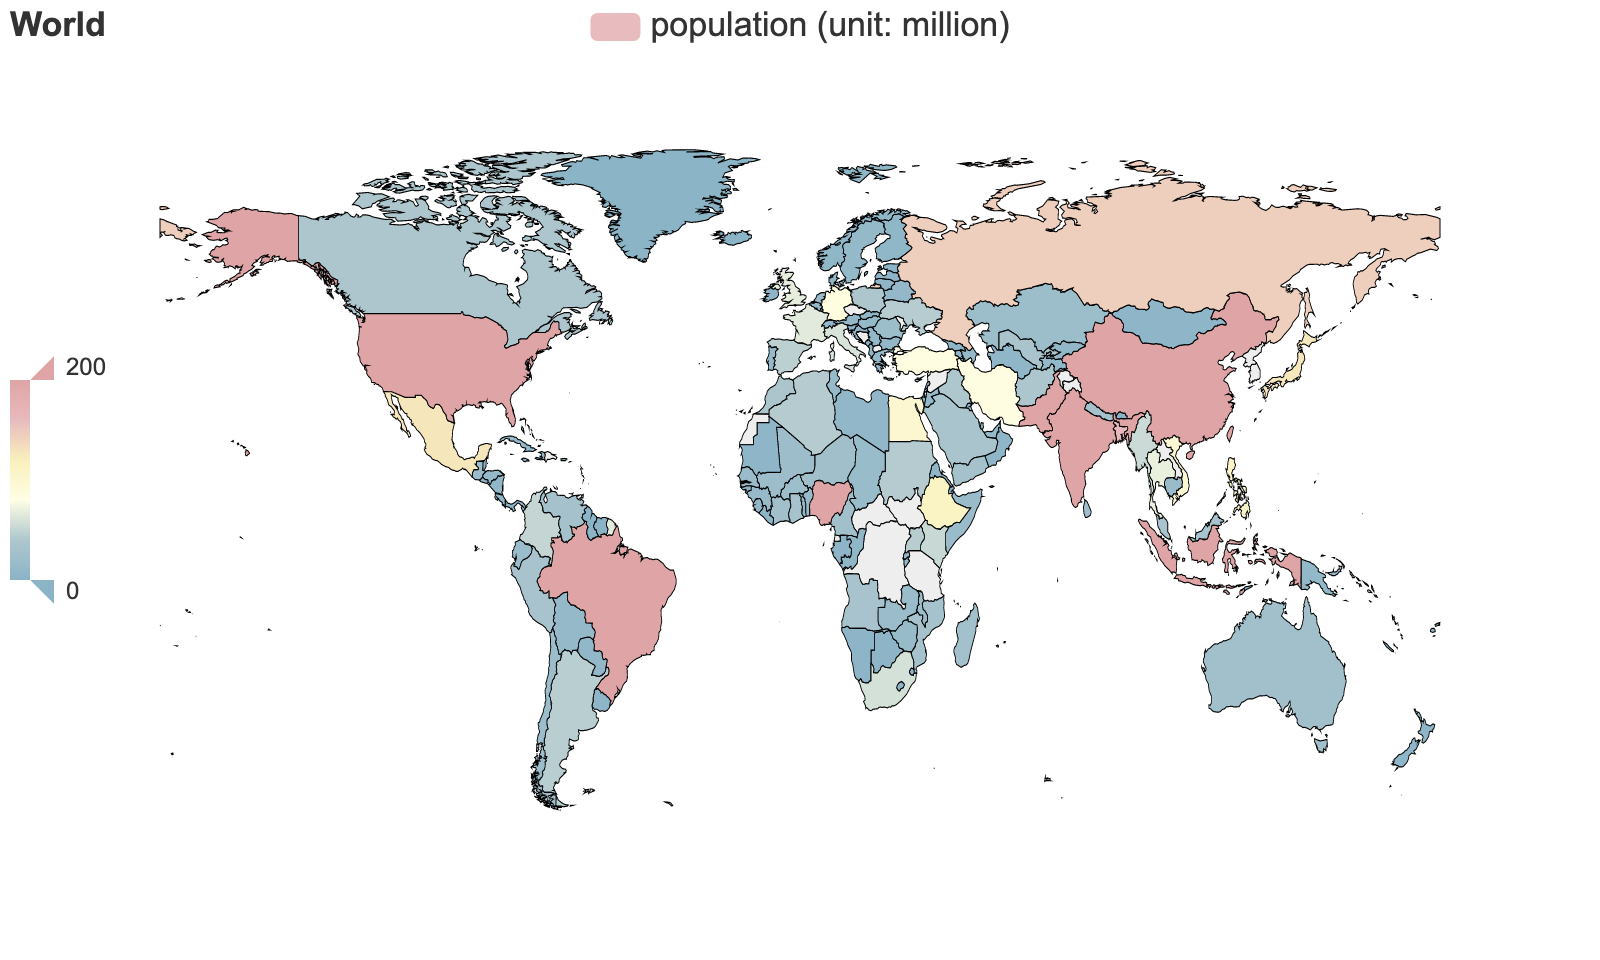
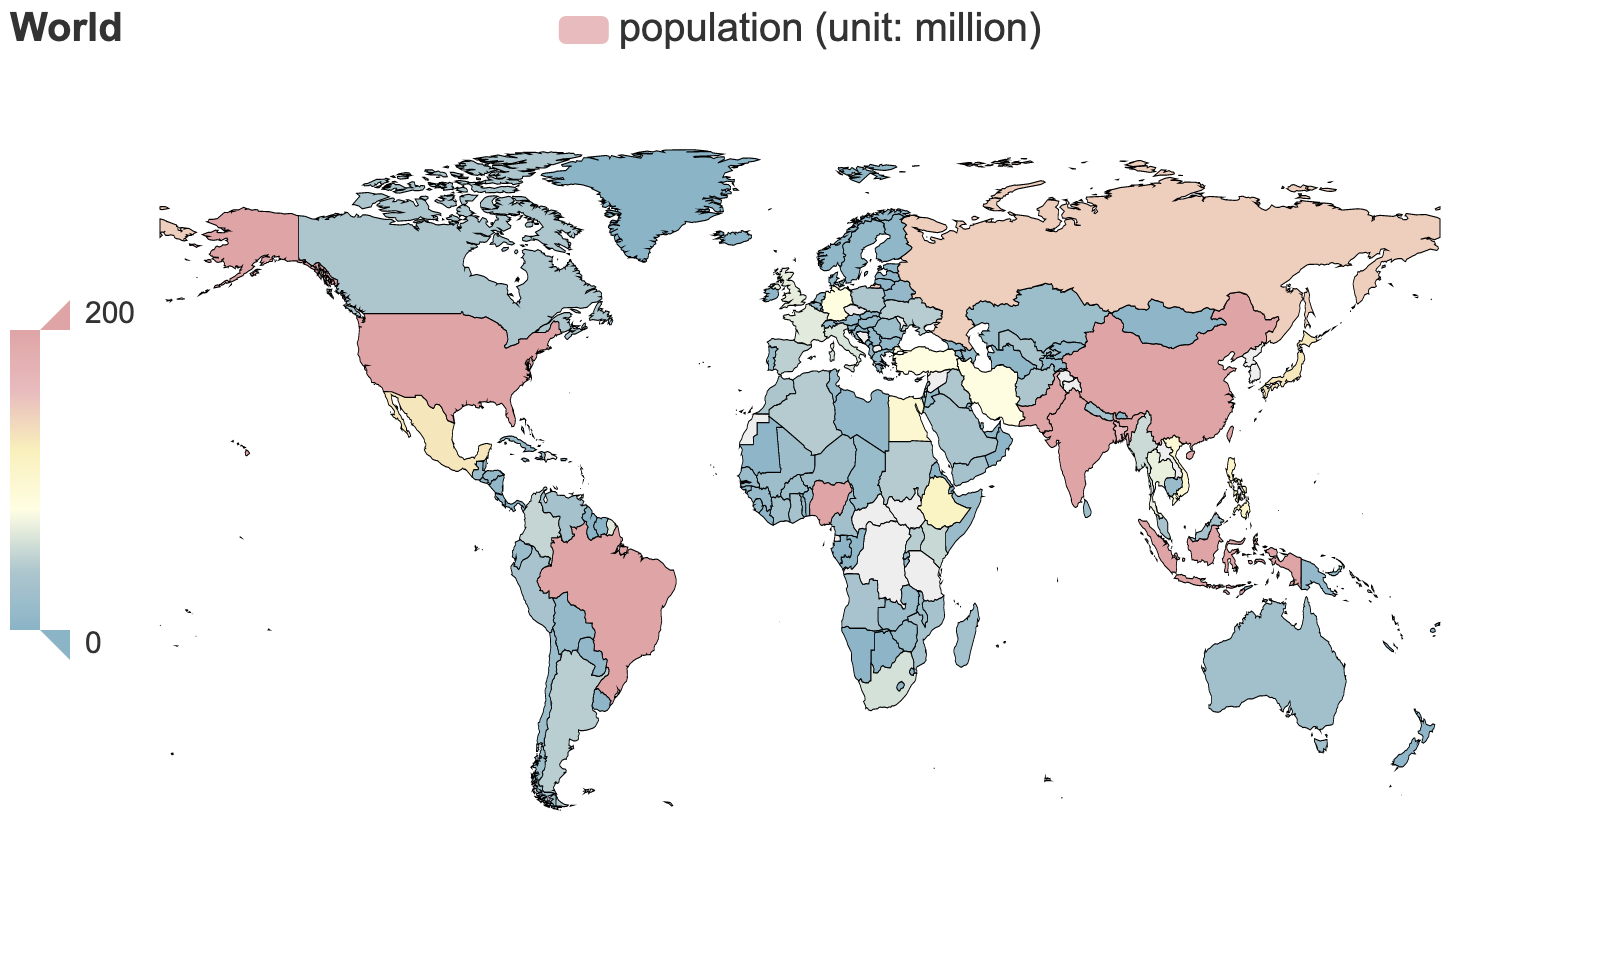
Add files via upload

diff --git a/covid-19/figures_rule_of_law/World_heatmap_overall.html b/covid-19/figures_rule_of_law/World_heatmap_overall.html
@@ -8,11 +8,11 @@
 
 </head>
 <body>
-    <div id="836d7d702f7b478482d96770fcd80b56" class="chart-container" style="width:800px; height:480px;"></div>
+    <div id="707cb8d31ebd4861a7d9e0aa009ff277" class="chart-container" style="width:800px; height:480px;"></div>
     <script>
-        var chart_836d7d702f7b478482d96770fcd80b56 = echarts.init(
-            document.getElementById('836d7d702f7b478482d96770fcd80b56'), 'white', {renderer: 'canvas'});
-        var option_836d7d702f7b478482d96770fcd80b56 = {
+        var chart_707cb8d31ebd4861a7d9e0aa009ff277 = echarts.init(
+            document.getElementById('707cb8d31ebd4861a7d9e0aa009ff277'), 'white', {renderer: 'canvas'});
+        var option_707cb8d31ebd4861a7d9e0aa009ff277 = {
     "backgroundColor": "#FFFFFF",
     "animation": true,
     "animationThreshold": 2000,
@@ -56,7 +56,7 @@
                 "show": false,
                 "position": "top",
                 "margin": 8,
-                "fontSize": 2
+                "fontSize": 7
             },
             "mapType": "world",
             "data": [
@@ -600,7 +600,7 @@
             "itemWidth": 25,
             "itemHeight": 14,
             "textStyle": {
-                "fontSize": 15
+                "fontSize": 20
             }
         }
     ],
@@ -622,10 +622,10 @@
             "padding": 5,
             "itemGap": 10,
             "textStyle": {
-                "fontSize": 15
+                "fontSize": 20
             },
             "subtextStyle": {
-                "fontSize": 15
+                "fontSize": 20
             }
         }
     ],
@@ -635,7 +635,7 @@
         "min": 0.25,
         "max": 0.75,
         "textStyle": {
-            "fontSize": 10
+            "fontSize": 15
         },
         "inRange": {
             "color": [
@@ -653,12 +653,12 @@
         "orient": "vertical",
         "top": "center",
         "showLabel": true,
-        "itemWidth": 10,
-        "itemHeight": 100,
+        "itemWidth": 15,
+        "itemHeight": 150,
         "borderWidth": 0
     }
 };
-        chart_836d7d702f7b478482d96770fcd80b56.setOption(option_836d7d702f7b478482d96770fcd80b56);
+        chart_707cb8d31ebd4861a7d9e0aa009ff277.setOption(option_707cb8d31ebd4861a7d9e0aa009ff277);
     </script>
 </body>
 </html>

diff --git a/covid-19/figures_rule_of_law/World_heatmap_population.html b/covid-19/figures_rule_of_law/World_heatmap_population.html
@@ -8,11 +8,11 @@
 
 </head>
 <body>
-    <div id="5c2e4a1dbf794fb9990ca54c0515a5c7" class="chart-container" style="width:800px; height:480px;"></div>
+    <div id="67f85e8f0c714a65b9896220f86b012e" class="chart-container" style="width:800px; height:480px;"></div>
     <script>
-        var chart_5c2e4a1dbf794fb9990ca54c0515a5c7 = echarts.init(
-            document.getElementById('5c2e4a1dbf794fb9990ca54c0515a5c7'), 'white', {renderer: 'canvas'});
-        var option_5c2e4a1dbf794fb9990ca54c0515a5c7 = {
+        var chart_67f85e8f0c714a65b9896220f86b012e = echarts.init(
+            document.getElementById('67f85e8f0c714a65b9896220f86b012e'), 'white', {renderer: 'canvas'});
+        var option_67f85e8f0c714a65b9896220f86b012e = {
     "backgroundColor": "#FFFFFF",
     "animation": true,
     "animationThreshold": 2000,
@@ -56,7 +56,7 @@
                 "show": false,
                 "position": "top",
                 "margin": 8,
-                "fontSize": 4
+                "fontSize": 7
             },
             "mapType": "world",
             "data": [
@@ -952,7 +952,7 @@
             "itemWidth": 25,
             "itemHeight": 14,
             "textStyle": {
-                "fontSize": 17
+                "fontSize": 20
             }
         }
     ],
@@ -974,10 +974,10 @@
             "padding": 5,
             "itemGap": 10,
             "textStyle": {
-                "fontSize": 17
+                "fontSize": 20
             },
             "subtextStyle": {
-                "fontSize": 17
+                "fontSize": 20
             }
         }
     ],
@@ -987,7 +987,7 @@
         "min": 0,
         "max": 200,
         "textStyle": {
-            "fontSize": 12
+            "fontSize": 15
         },
         "inRange": {
             "color": [
@@ -1005,12 +1005,12 @@
         "orient": "vertical",
         "top": "center",
         "showLabel": true,
-        "itemWidth": 10,
-        "itemHeight": 100,
+        "itemWidth": 15,
+        "itemHeight": 150,
         "borderWidth": 0
     }
 };
-        chart_5c2e4a1dbf794fb9990ca54c0515a5c7.setOption(option_5c2e4a1dbf794fb9990ca54c0515a5c7);
+        chart_67f85e8f0c714a65b9896220f86b012e.setOption(option_67f85e8f0c714a65b9896220f86b012e);
     </script>
 </body>
 </html>
